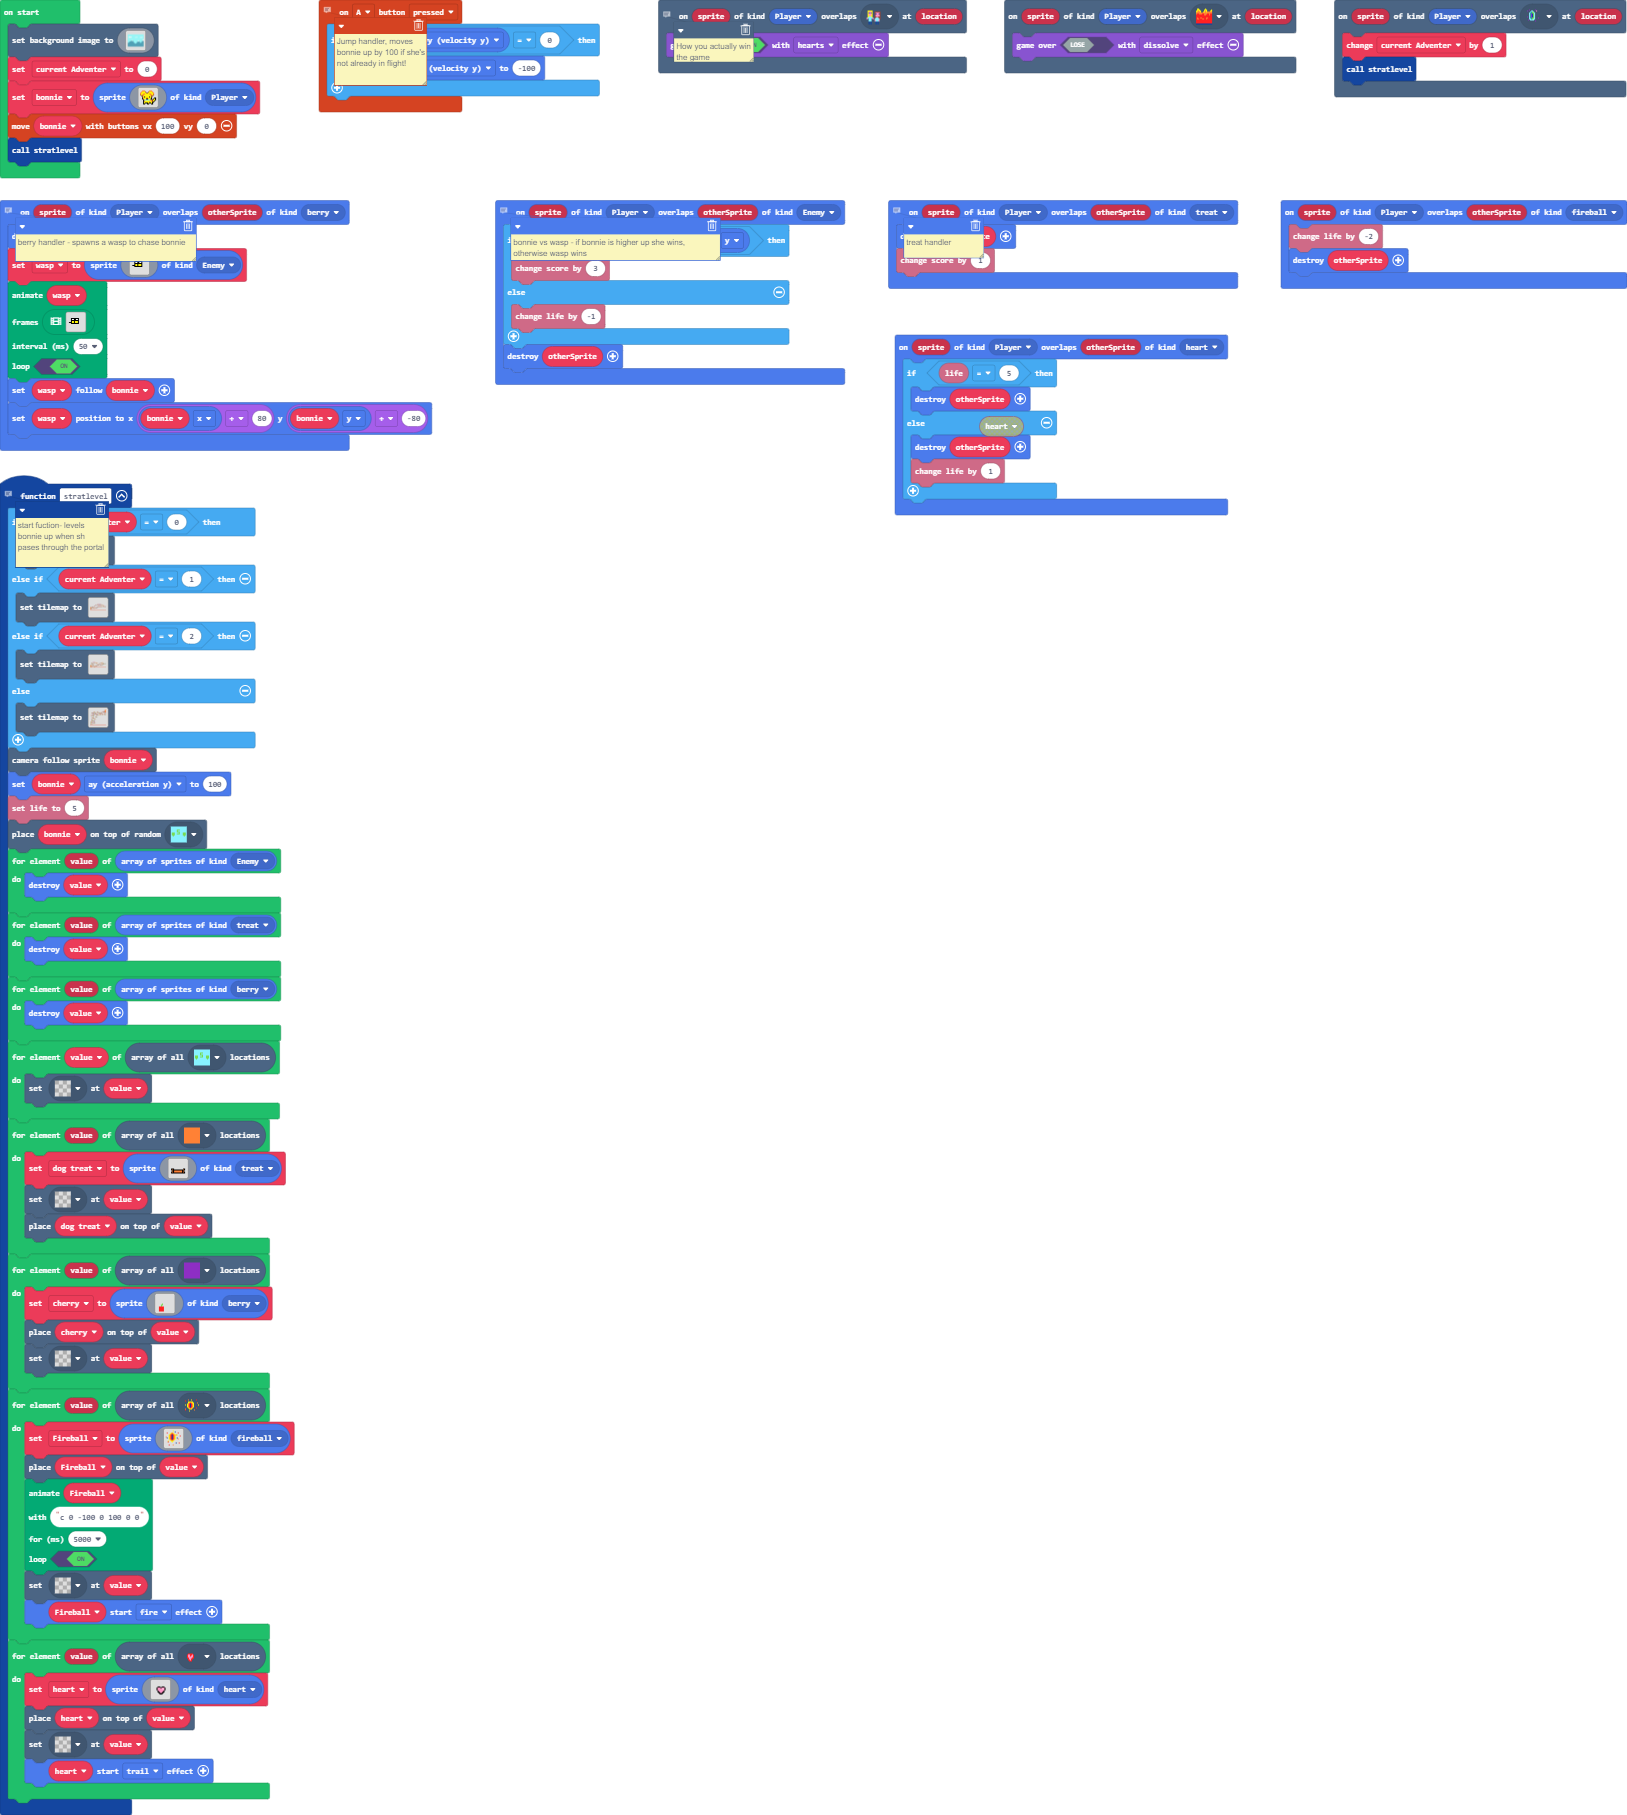
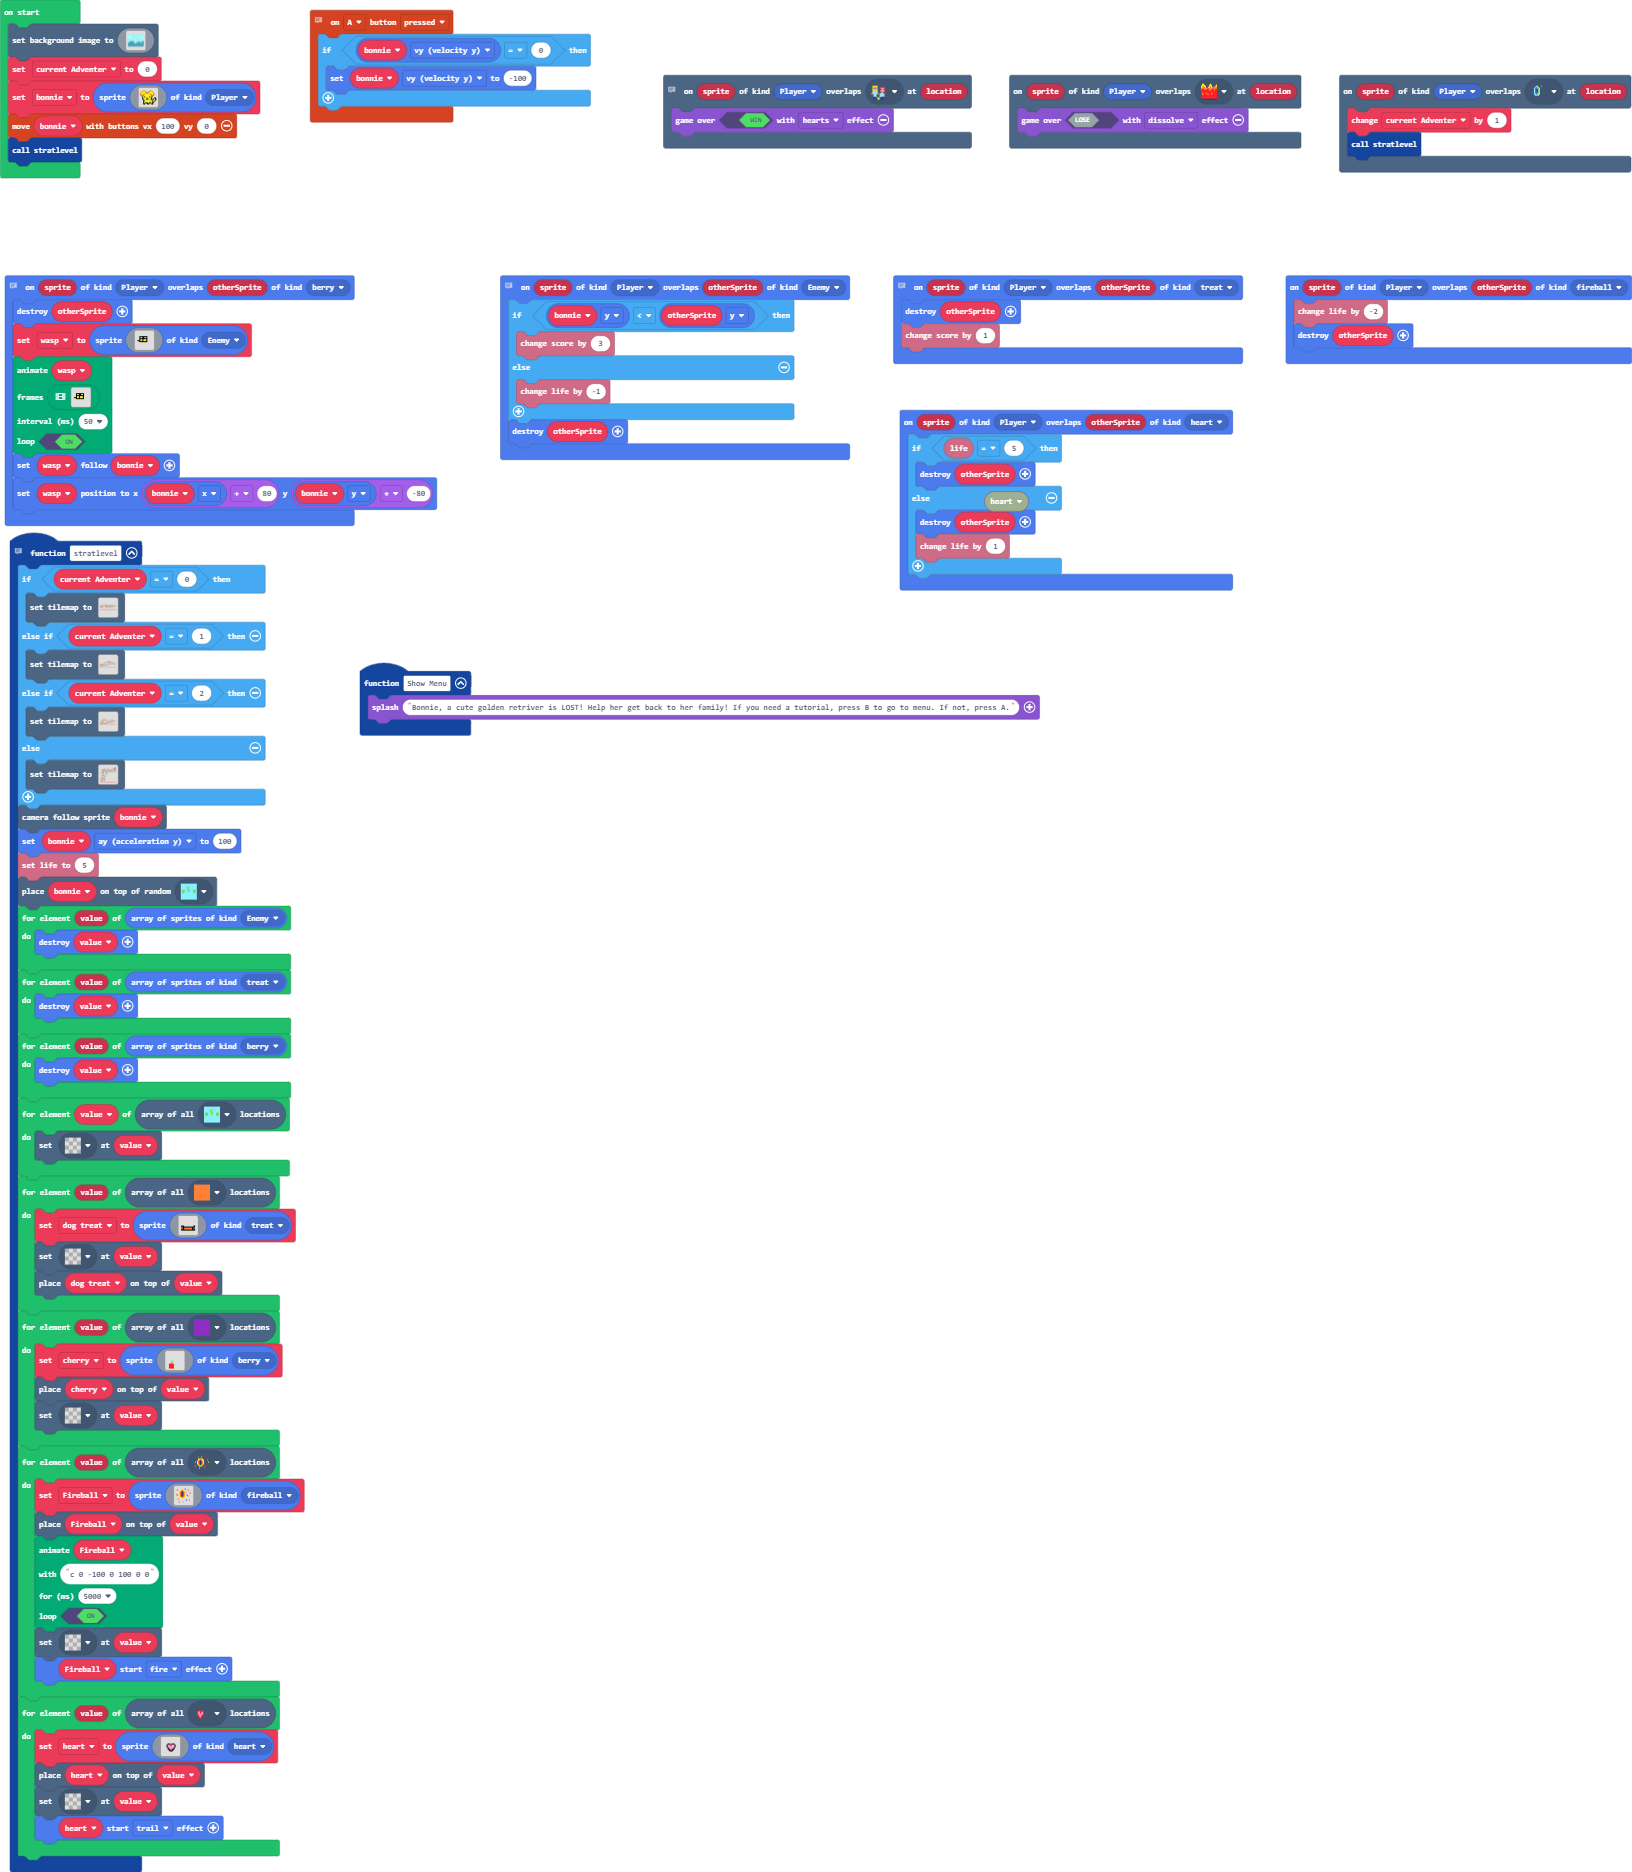
Added start of menu function

diff --git a/tilemap.g.ts b/tilemap.g.ts
@@ -33,8 +33,6 @@ namespace myTiles {
     //% fixedInstance jres blockIdentity=images._tile
     export const tile16 = image.ofBuffer(hex``);
     //% fixedInstance jres blockIdentity=images._tile
-    export const tile15 = image.ofBuffer(hex``);
-    //% fixedInstance jres blockIdentity=images._tile
     export const tile18 = image.ofBuffer(hex``);
     //% fixedInstance jres blockIdentity=images._tile
     export const tile17 = image.ofBuffer(hex``);
@@ -44,6 +42,8 @@ namespace myTiles {
     export const tile20 = image.ofBuffer(hex``);
     //% fixedInstance jres blockIdentity=images._tile
     export const tile21 = image.ofBuffer(hex``);
+    //% fixedInstance jres blockIdentity=images._tile
+    export const tile15 = image.ofBuffer(hex``);
 
     helpers._registerFactory("tilemap", function(name: string) {
         switch(helpers.stringTrim(name)) {
@@ -192,8 +192,6 @@ namespace myTiles {
             case "tile13":return tile13;
             case "myTile14":
             case "tile16":return tile16;
-            case "myTile13":
-            case "tile15":return tile15;
             case "myTile16":
             case "tile18":return tile18;
             case "myTile15":
@@ -204,6 +202,8 @@ namespace myTiles {
             case "tile20":return tile20;
             case "myTile19":
             case "tile21":return tile21;
+            case "myTile13":
+            case "tile15":return tile15;
         }
         return null;
     })

diff --git a/main.ts b/main.ts
@@ -143,6 +143,9 @@ function stratlevel () {
         heart.startEffect(effects.trail)
     }
 }
+function Show_Menu () {
+    game.splash("Bonnie, a cute golden retriver is LOST! Help her get back to her family! If you need a tutorial, press B to go to menu. If not, press A.")
+}
 sprites.onOverlap(SpriteKind.Player, SpriteKind.fireball, function (sprite, otherSprite) {
     info.changeLifeBy(-2)
     otherSprite.destroy()
